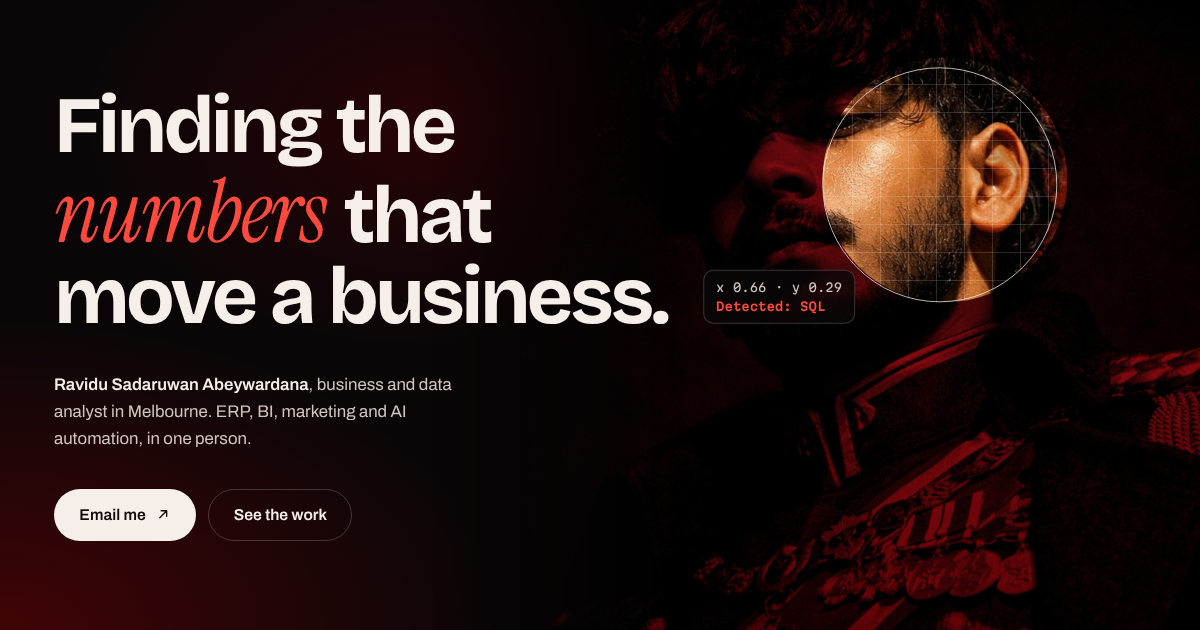
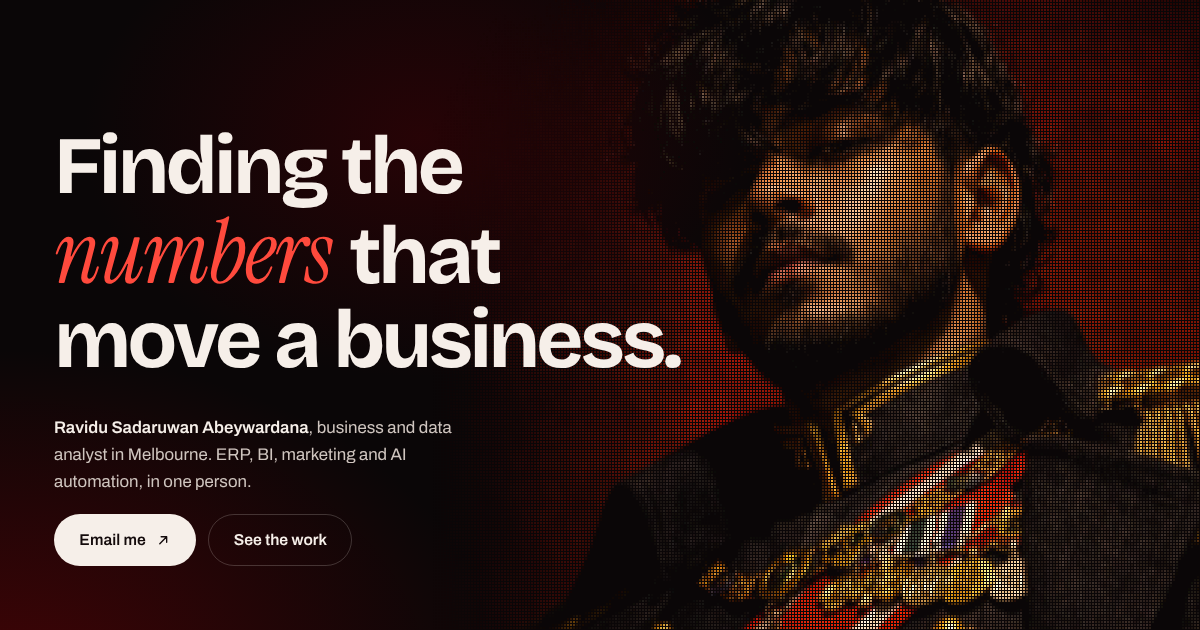
Show the portrait in true colour with a finer particle grid
Drop the greyscale and red tint; particles take the photo's own colours
on a 3px grid, drawn into a pixel buffer, and snap exactly into place
when settled. Refresh the link preview image.

Claude-Session: https://claude.ai/code/session_01XyATfVwh5L9tGmL1RWYM4q

diff --git a/site/particles.js b/site/particles.js
@@ -1,7 +1,8 @@
 /* Particle portrait
-   The hero photo is sampled into a grid of particles, coloured from its
-   brightness in the site's red. They gather into the portrait once the
-   page is ready, scatter away from the pointer, and spring back. */
+   The hero photo is sampled into a fine grid of particles in the photo's
+   own colours. They gather into the portrait once the page is ready, part
+   around the pointer and spring back, and drift away as the hero scrolls
+   out of view. Drawn straight into a pixel buffer so a fine grid stays smooth. */
 
 (() => {
   const fig = document.querySelector('[data-lens]');
@@ -17,22 +18,12 @@
 
   const root = document.documentElement;
   const reduce = matchMedia('(prefers-reduced-motion: reduce)').matches;
-  const BUCKETS = 24;
 
-  // brightness -> colour: deep red, signal red, then a warm highlight
-  const mix = (a, b, t) => a.map((v, i) => Math.round(v + (b[i] - v) * t));
-  const DEEP = [74, 6, 10], RED = [232, 22, 30], HOT = [255, 92, 72], LIGHT = [255, 214, 196];
-  const palette = Array.from({ length: BUCKETS }, (_, i) => {
-    const t = i / (BUCKETS - 1);
-    const c = t < 0.55 ? mix(DEEP, RED, t / 0.55) : t < 0.85 ? mix(RED, HOT, (t - 0.55) / 0.3) : mix(HOT, LIGHT, (t - 0.85) / 0.15);
-    return `rgb(${c[0]},${c[1]},${c[2]})`;
-  });
-
-  let W = 0, H = 0, dpr = 1, n = 0, size = 3;
-  let x, y, hx, hy, vx, vy, delay, sz, sdx, sdy, starts = [];
-  let scrollP = 0;
-  let raf = 0, t0 = 0, built = false;
-  const mouse = { x: -9999, y: -9999, on: false, r: 120 };
+  let W = 0, H = 0, n = 0, step = 3, dot = 2;
+  let x, y, hx, hy, vx, vy, delay, sdx, sdy, col;
+  let frame, buf;
+  let raf = 0, t0 = 0, built = false, scrollP = 0;
+  const mouse = { x: -9999, y: -9999, on: false, r: 110 };
 
   const parsePos = () => {
     const p = getComputedStyle(img).objectPosition.split(' ');
@@ -44,9 +35,11 @@
     const r = fig.getBoundingClientRect();
     W = Math.round(r.width); H = Math.round(r.height);
     if (!W || !H || !img.naturalWidth) return false;
-    dpr = Math.min(2, window.devicePixelRatio || 1);
-    canvas.width = Math.round(W * dpr); canvas.height = Math.round(H * dpr);
+    // one canvas pixel per CSS pixel keeps the buffer small; the grid is the texture
+    canvas.width = W; canvas.height = H;
     canvas.style.width = W + 'px'; canvas.style.height = H + 'px';
+    frame = ctx.createImageData(W, H);
+    buf = new Uint32Array(frame.data.buffer);
 
     // where the photo sits under object-fit: cover
     const [px, py] = parsePos();
@@ -54,103 +47,111 @@
     const dw = img.naturalWidth * s, dh = img.naturalHeight * s;
     const ox = (W - dw) * px, oy = (H - dh) * py;
 
-    const step = W < 600 ? 5 : W < 900 ? 5 : 6;
-    size = step * 0.92;
-    const cols = Math.ceil(W / step), rows = Math.ceil(H / step);
+    step = 3; dot = 2;
+    const cols = Math.floor(W / step), rows = Math.floor(H / step);
     const off = document.createElement('canvas');
     off.width = cols; off.height = rows;
     const o = off.getContext('2d', { willReadFrequently: true });
+    o.imageSmoothingQuality = 'high';
     o.drawImage(img, ox / step, oy / step, dw / step, dh / step);
     const data = o.getImageData(0, 0, cols, rows).data;
 
-    const pts = [];
+    const keep = [];
     for (let j = 0; j < rows; j++) {
       for (let i = 0; i < cols; i++) {
         const k = (j * cols + i) * 4;
-        let l = (0.299 * data[k] + 0.587 * data[k + 1] + 0.114 * data[k + 2]) / 255;
-        l = Math.min(1, Math.max(0, (l - 0.07) * 1.55));
-        if (l < 0.06) continue;
-        pts.push([i * step + step / 2, j * step + step / 2, Math.min(BUCKETS - 1, Math.floor(l * BUCKETS)), l]);
+        const l = (0.299 * data[k] + 0.587 * data[k + 1] + 0.114 * data[k + 2]) / 255;
+        if (l < 0.035) continue; // near-black: nothing to see, skip the work
+        keep.push(i, j, k);
       }
     }
-    pts.sort((a, b) => a[2] - b[2]);
-    n = pts.length;
+    n = keep.length / 3;
     x = new Float32Array(n); y = new Float32Array(n);
     hx = new Float32Array(n); hy = new Float32Array(n);
     vx = new Float32Array(n); vy = new Float32Array(n);
-    delay = new Float32Array(n); sz = new Float32Array(n);
-    sdx = new Float32Array(n); sdy = new Float32Array(n);
-    starts = new Array(BUCKETS + 1).fill(0);
-    for (let i = 0; i < n; i++) {
-      const p = pts[i];
-      hx[i] = p[0]; hy[i] = p[1];
-      sz[i] = size * (0.45 + p[3] * 0.6);
-      // where this particle drifts as the hero scrolls away: up and outward
+    delay = new Float32Array(n); sdx = new Float32Array(n); sdy = new Float32Array(n);
+    col = new Uint32Array(n);
+    const little = new Uint8Array(new Uint32Array([1]).buffer)[0] === 1;
+    for (let q = 0; q < n; q++) {
+      const i = keep[q * 3], j = keep[q * 3 + 1], k = keep[q * 3 + 2];
+      hx[q] = i * step; hy[q] = j * step;
+      // the photo's own colour, lifted a touch so it reads on the dark page
+      const rr = Math.min(255, data[k] * 1.08), gg = Math.min(255, data[k + 1] * 1.08), bb = Math.min(255, data[k + 2] * 1.08);
+      col[q] = little ? ((255 << 24) | (bb << 16) | (gg << 8) | rr) >>> 0 : ((rr << 24) | (gg << 16) | (bb << 8) | 255) >>> 0;
       const sa = -Math.PI / 2 + (Math.random() - 0.5) * Math.PI * 1.3;
       const sm = (0.25 + Math.random() * 0.85) * H * 0.55;
-      sdx[i] = Math.cos(sa) * sm + (hx[i] - W * 0.6) * 0.35;
-      sdy[i] = Math.sin(sa) * sm;
-      starts[p[2] + 1]++;
-      if (reduce || built) { x[i] = hx[i]; y[i] = hy[i]; }
+      sdx[q] = Math.cos(sa) * sm + (hx[q] - W * 0.6) * 0.35;
+      sdy[q] = Math.sin(sa) * sm;
+      if (reduce || built) { x[q] = hx[q]; y[q] = hy[q]; }
       else {
-        // a loose cloud drifting in from the right and below
         const a = Math.random() * Math.PI * 2, d = 0.35 + Math.random() * 0.9;
-        x[i] = W * 0.62 + Math.cos(a) * W * d;
-        y[i] = H * 0.55 + Math.sin(a) * H * d * 0.7;
-        delay[i] = (hy[i] / H) * 0.55 + Math.random() * 0.55;
+        x[q] = W * 0.62 + Math.cos(a) * W * d;
+        y[q] = H * 0.55 + Math.sin(a) * H * d * 0.7;
+        delay[q] = (hy[q] / H) * 0.55 + Math.random() * 0.55;
       }
     }
-    for (let b = 1; b <= BUCKETS; b++) starts[b] += starts[b - 1];
-    mouse.r = Math.max(64, Math.min(120, W * 0.11));
+    mouse.r = Math.max(60, Math.min(110, W * 0.1));
     return true;
   }
 
   function draw() {
-    ctx.setTransform(dpr, 0, 0, dpr, 0, 0);
-    ctx.clearRect(0, 0, W, H);
-    ctx.globalAlpha = 1 - scrollP * 0.75;
-    for (let b = 0; b < BUCKETS; b++) {
-      const a = starts[b], e = starts[b + 1];
-      if (a === e) continue;
-      ctx.fillStyle = palette[b];
-      for (let i = a; i < e; i++) ctx.fillRect(x[i] - sz[i] / 2, y[i] - sz[i] / 2, sz[i], sz[i]);
+    buf.fill(0);
+    const fade = 1 - scrollP * 0.8;
+    const aMul = Math.round(255 * fade);
+    const little = new Uint8Array(new Uint32Array([1]).buffer)[0] === 1;
+    for (let q = 0; q < n; q++) {
+      const px = (x[q] + 0.5) | 0, py = (y[q] + 0.5) | 0;
+      if (px < 0 || py < 0 || px >= W - dot || py >= H - dot) continue;
+      let c = col[q];
+      if (aMul < 255) {
+        // premultiplied-free alpha: just set the alpha byte
+        c = little ? ((c & 0x00ffffff) | (aMul << 24)) >>> 0 : ((c & 0xffffff00) | aMul) >>> 0;
+      }
+      const base = py * W + px;
+      buf[base] = c; buf[base + 1] = c;
+      buf[base + W] = c; buf[base + W + 1] = c;
     }
+    ctx.putImageData(frame, 0, 0);
   }
 
   function tick(now) {
     const t = (now - t0) / 1000;
     let moving = false;
-    const R = mouse.r, R2 = R * R;
-    for (let i = 0; i < n; i++) {
-      const k = t > delay[i] ? 0.055 : 0.0025;
-      const tx = hx[i] + sdx[i] * scrollP, ty = hy[i] + sdy[i] * scrollP;
-      let ax = (tx - x[i]) * k, ay = (ty - y[i]) * k;
+    const R = mouse.r, R2 = R * R, sp = scrollP;
+    for (let q = 0; q < n; q++) {
+      const k = t > delay[q] ? 0.06 : 0.0025;
+      const tx = hx[q] + sdx[q] * sp, ty = hy[q] + sdy[q] * sp;
+      let ax = (tx - x[q]) * k, ay = (ty - y[q]) * k;
       if (mouse.on) {
-        const dx = x[i] - mouse.x, dy = y[i] - mouse.y, d2 = dx * dx + dy * dy;
+        const dx = x[q] - mouse.x, dy = y[q] - mouse.y, d2 = dx * dx + dy * dy;
         if (d2 < R2 && d2 > 0.01) {
           const d = Math.sqrt(d2), f = (1 - d / R) * (1 - d / R) * 4.2;
           ax += (dx / d) * f - (dy / d) * f * 0.18;
           ay += (dy / d) * f + (dx / d) * f * 0.18;
         }
       }
-      vx[i] = (vx[i] + ax) * 0.84;
-      vy[i] = (vy[i] + ay) * 0.84;
-      x[i] += vx[i]; y[i] += vy[i];
-      if (!moving && (Math.abs(vx[i]) > 0.03 || Math.abs(vy[i]) > 0.03 || Math.abs(tx - x[i]) > 0.4 || Math.abs(ty - y[i]) > 0.4)) moving = true;
+      vx[q] = (vx[q] + ax) * 0.84;
+      vy[q] = (vy[q] + ay) * 0.84;
+      x[q] += vx[q]; y[q] += vy[q];
+      if (!moving && (vx[q] > 0.03 || vx[q] < -0.03 || vy[q] > 0.03 || vy[q] < -0.03 || Math.abs(tx - x[q]) > 0.4 || Math.abs(ty - y[q]) > 0.4)) moving = true;
+    }
+    const keepGoing = moving || mouse.on || t < 1.4;
+    if (!keepGoing) {
+      // settled: snap every particle exactly onto its spot so the grid is clean
+      for (let q = 0; q < n; q++) { x[q] = hx[q] + sdx[q] * sp; y[q] = hy[q] + sdy[q] * sp; vx[q] = 0; vy[q] = 0; }
     }
     draw();
-    if (moving || mouse.on || t < 1.4) raf = requestAnimationFrame(tick);
-    else raf = 0;
+    raf = keepGoing ? requestAnimationFrame(tick) : 0;
   }
 
-  const wake = () => { if (!raf && !reduce) raf = requestAnimationFrame(tick); };
+  const wake = () => { if (!raf && !reduce && built) raf = requestAnimationFrame(tick); };
 
   function start() {
     if (!build()) return;
     fig.classList.add('has-particles');
-    if (reduce) { draw(); built = true; return; }
-    t0 = performance.now();
     built = true;
+    if (reduce) { draw(); return; }
+    t0 = performance.now();
     raf = requestAnimationFrame(tick);
   }
 
@@ -162,7 +163,7 @@
   if (img.complete && img.naturalWidth) whenReady();
   else img.addEventListener('load', whenReady, { once: true });
 
-  // the pointer pushes particles away
+  // the pointer parts the particles
   const aim = (e) => {
     const r = canvas.getBoundingClientRect();
     mouse.x = e.clientX - r.left; mouse.y = e.clientY - r.top; mouse.on = true;
@@ -192,7 +193,7 @@
   }
 
   // rebuild on resize, keeping the settled portrait
-  let rt = 0, lastW = 0;
+  let rt = 0, lastW = fig.getBoundingClientRect().width;
   addEventListener('resize', () => {
     clearTimeout(rt);
     rt = setTimeout(() => {
@@ -203,7 +204,6 @@
       if (build()) draw();
     }, 180);
   });
-  lastW = fig.getBoundingClientRect().width;
 
   // pause work when the hero is off screen
   new IntersectionObserver(([en]) => {

diff --git a/site/styles.css b/site/styles.css
@@ -179,17 +179,9 @@ html:not(.js) .intro, .intro-seen .intro { display: none; }
 .portrait__img {
   position: absolute; inset: 0; width: 100%; height: 100%;
   object-fit: cover; object-position: 50% 12%;
-  filter: grayscale(1) contrast(1.2) brightness(.82);
-  transform: scale(1.04);
 }
 .js .portrait__img { opacity: 0; }
 .is-ready .portrait__img { animation: portrait-in 1.8s var(--ease) both; }
-.portrait::after {
-  content: ""; position: absolute; inset: 0; z-index: 1;
-  background: linear-gradient(180deg, #d0141c, #7a0308);
-  mix-blend-mode: multiply;
-  pointer-events: none;
-}
 
 .hero__copy {
   position: relative; z-index: 2;
@@ -472,7 +464,7 @@ html:not(.js) .timeline::after { transform: none; }
    ============================================================ */
 @keyframes marquee { to { transform: translateX(-50%); } }
 @keyframes blink { 50% { opacity: 0; } }
-@keyframes portrait-in { from { transform: scale(1.14); opacity: 0; } to { transform: scale(1.04); opacity: 1; } }
+@keyframes portrait-in { from { transform: scale(1.08); opacity: 0; } to { transform: none; opacity: 1; } }
 @keyframes drop {
   0% { opacity: 0; transform: translateY(-46vh) rotate(var(--rot, 0deg)); }
   12% { opacity: 1; }
@@ -632,9 +624,8 @@ html.is-switching main { opacity: 0; filter: blur(6px); }
 @keyframes line-rise { from { transform: translateY(112%); } to { transform: none; } }
 
 /* ---------- particle portrait ---------- */
-.portrait__particles { position: absolute; inset: 0; z-index: 2; touch-action: pan-y; }
+.portrait__particles { position: absolute; inset: 0; z-index: 2; touch-action: pan-y; image-rendering: pixelated; }
 .portrait.has-particles .portrait__img { visibility: hidden; }
-.portrait.has-particles::after { display: none; }
 
 /* ============================================================
    scroll motion (phone-first)
